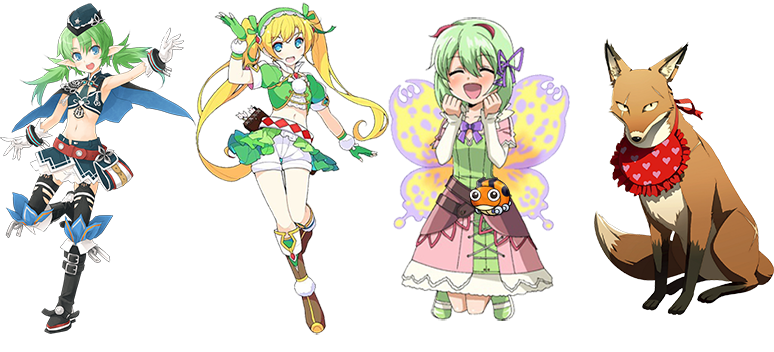
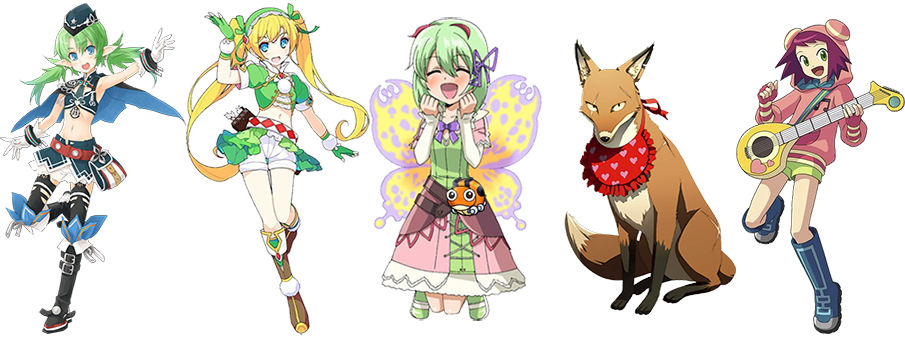
Subida la noticia de megaman y algunos cambios en la web

diff --git a/index.html b/index.html
@@ -55,6 +55,14 @@ window.cookieconsent.initialise({
 		<div class="main-menu" id="main-menu"></div>
 		<div class="second-bar" id="second-bar"><a href="index.html"><div class="logo"></div></a></div>
 		<div class="content-container" style="width: 630px; float: left;">
+		<div class="content-title" style="width: 610px;">¡Anunciamos la traducción de Megaman Starforce 3!</div>
+			<div class="content">
+				<img onload="this.style.opacity='1';" src="articles/02-2018/traduccionmegamanstarforce3-28/images/top.jpg" ><br>
+				Después de <b>A Hat in Time</b>, se viene el que es el segundo proyecto nacido de la iniciativa <b><u>TraduSquare</u></b>.<br><br>
+				Así, dos equipos pertenecientes a <b>esta bonita comunidad</b>, se han unido para llevar a cabo la traducción de <b>Megaman Starforce 3</b>, para Nintendo DS. Para quien no lo conozca, Megaman Starforce es una subsaga de Megaman, secuela "directa" (unos 200 años en el futuro) del famosísimo Megaman Battle Network.<br><br>
+				Si bien los dos primeros juegos de esta saga <b>vinieron traducidos de forma oficial en español</b>, el tercero quedó en el olvido, allá por el 2009, y, a pesar de haberse intentado realizar en varias ocasiones una traducción por fans, ninguna llegó a buen puerto...<br><br>
+				<center><a class="boton_readmore" href="https://tradusquare.es/2018/02/28/nuevo-proyecto-megaman-starforce-3-ds/">Leer más</a></center>
+			</div>
 		<div class="content-title" style="width: 610px;">GlowNovedades #4: ¡Proyecto secreto, testeo de lord y más!</div>
 			<div class="content">
 				<img onload="this.style.opacity='1';" style="width: 570px; height: 320px;" src="articles/01-2018/GlowNovedades4-31/images/top.png" ><br>
@@ -94,17 +102,6 @@ window.cookieconsent.initialise({
                 La <b>traducción de Rune Factory 4</b> también tiene sus novedades...<br><br>
 				<center><a class="boton_readmore" href="articles/12-2017/Avancestradus-17/Avancestradus.html">Leer más</a></center>
 			</div>
-        <div class="content-title" style="width: 610px;">GlowNovedades #2 - ¡Se acercan las navidades!</div>
-			<div class="content">
-				<img onload="this.style.opacity='1';" style="width: 570px; height: 320px;" src="articles/11-2017/GlowNovedades2-30/images/top.png" ><br>
-                <b>¡Hola de nuevo!</b>
-                Traemos las GlowNovedades de éste mes, ¡con muchas cosas que contar!<br><br>
-
-                La <b>traducción de Lord of Magna</b> va viento en popa. Quedan pocas líneas de texto que traducir y corregir por lo que, una vez terminadas, comenzará su fase de testeo. ¡Esperad un poquito más! <br> <br>
-
-                La <b>traducción de Rune Factory 4</b> también avanza adecuadamente...<br> <br>
-				<center><a class="boton_readmore" href="articles/11-2017/GlowNovedades2-30/GlowNovedades-2.html">Leer más</a></center>
-			</div>
 		</div>
 			<div class="module" style="width: 260px;">
 			<div class="content-container">
@@ -112,6 +109,7 @@ window.cookieconsent.initialise({
 				<div class="content-title">Noticias</div>
 				</div>
 				<ul>
+					<li><a href="articles/02-2018/index.html">Febrero 2018</a></li>
 					<li><a href="articles/01-2018/index.html">Enero 2018</a></li>
                     <li><a href="articles/12-2017/index.html">Diciembre 2017</a></li>
 					<li><a href="articles/11-2017/index.html">Noviembre 2017</a></li>
@@ -144,15 +142,15 @@ window.cookieconsent.initialise({
 				<div style="clear: both;"></div>
 				<div class="progress-title">Lord of Magna: Maiden Heaven</div>
 					<div class="wrap">
-					<div class="progress-radial progress-85" style="background-color: #4f7cfe;">
+					<div class="progress-radial progress-95" style="background-color: #4f7cfe;">
  					 <div class="overlay"></div>
- 					 <div class="text-overlay" style="font-size: 30px;">85%</div>
+ 					 <div class="text-overlay" style="font-size: 30px;">95%</div>
 					</div>
 					</div>
 				<div style="clear: both;"></div>
 				<div class="progress-title">Rune Factory 4</div>
 					<div class="wrap">
-					<div class="progress-radial progress-15" style="background-color: #4f7cfe;">
+					<div class="progress-radial progress-20" style="background-color: #4f7cfe;">
  					 <div class="overlay"></div>
  					 <div class="text-overlay" style="font-size: 30px;">15%</div>
 					</div>
@@ -163,6 +161,14 @@ window.cookieconsent.initialise({
 					<div class="progress-radial progress-5" style="background-color: #4f7cfe;">
  					 <div class="overlay"></div>
  					 <div class="text-overlay" style="font-size: 30px;">5%</div>
+					</div>
+					</div>
+				<div style="clear: both;"></div>
+				<div class="progress-title">Megaman StarForce 3</div>
+					<div class="wrap">
+					<div class="progress-radial progress-10" style="background-color: #4f7cfe;">
+ 					 <div class="overlay"></div>
+ 					 <div class="text-overlay" style="font-size: 30px;">10%</div>
 					</div>
 					</div>
 				<div style="clear: both;"></div>
@@ -179,6 +185,7 @@ window.cookieconsent.initialise({
 				<a href="http://tiovictor.romhackhispano.org/"><img style="margin-top: 10px; margin-bottom: 10px;" onload="this.style.opacity='1';" width="240px" height="78px" src="images/friends/tiovictor.png"></a>
 				<a href="https://www.gradienwords.es/"><img style="margin-top: 10px; margin-bottom: 10px;" onload="this.style.opacity='1';" width="240px" height="78px" src="images/friends/gradien.png"></a>
                 <a href="http://traduccionesxt.blogspot.com.es/"><img style="margin-top: 10px; margin-bottom: 10px;" onload="this.style.opacity='1';" width="240px" height="78px" src="images/friends/tradusXT.png"></a>
+				<a href="https://crimsontranslations.weebly.com/"><img style="margin-top: 10px; margin-bottom: 10px;" onload="this.style.opacity='1';" width="240px" height="78px" src="images/friends/crimson.png"></a>
 			</div>
 		</div>
 		<div style="height:100px; clear: both;"></div>

diff --git a/js/menus.js b/js/menus.js
@@ -1,5 +1,5 @@
 function mainMenu() {
-	document.getElementById("main-menu").innerHTML = '<a href="http://glowtranslations.tk/index.html"><div class="top-menu-item inicio">Inicio</div></a><div class="top-menu-item dropdown traducciones">Traducciones<div class="dropdown-content"><a href="http://glowtranslations.tk/translations/stellaglow/informacion.html"><div class="dropdown-item" id="stella-dropdown"><img style="opacity: 1; border: 1px solid #000000;" src="http://glowtranslations.tk/images/game-sg.jpg">Stella Glow <p class="state-dropdown">Finalizado</p></div></a><a href="http://glowtranslations.tk/translations/runefactory4/informacion.html"><div class="dropdown-item" id="stella-dropdown"><img src="http://glowtranslations.tk/images/game-rf4.jpg" style="opacity: 1; border: 1px solid #000000;">Rune Factory 4 <p class="state-dropdown">En proceso</p></div></a><a href="http://glowtranslations.tk/translations/lordofmagna/informacion.html"><div class="dropdown-item" id="stella-dropdown"><img src="http://glowtranslations.tk/images/game-lom.jpg" style="opacity: 1; border: 1px solid #000000;">Lord Of Magna: Maiden Heaven <p class="state-dropdown">En proceso</p></div></a><a href="http://glowtranslations.tk/translations/persona4/informacion.html"><div class="dropdown-item" id="stella-dropdown"><img src="http://glowtranslations.tk/images/game-p4.png" style="opacity: 1; border: 1px solid #000000;">SMT: Persona 4 <p class="state-dropdown">En proceso</p></div></a></div></div><a href="http://glowtranslations.tk/contactar.html"><div class="top-menu-item contacto">Contacto</div></a><a href="http://glowtranslations.tk/faq.html"><div class="top-menu-item FAQ">FAQ</div></a><a href="http://glowtranslations.tk/miembros.html"><div class="top-menu-item miembros">Miembros</div></a>';
+	document.getElementById("main-menu").innerHTML = '<a href="http://glowtranslations.tk/index.html"><div class="top-menu-item inicio">Inicio</div></a><div class="top-menu-item dropdown traducciones">Traducciones<div class="dropdown-content"><a href="http://glowtranslations.tk/translations/stellaglow/informacion.html"><div class="dropdown-item" id="stella-dropdown"><img style="opacity: 1; border: 1px solid #000000;" src="http://glowtranslations.tk/images/game-sg.jpg">Stella Glow <p class="state-dropdown">Finalizado</p></div></a><a href="http://glowtranslations.tk/translations/lordofmagna/informacion.html"><div class="dropdown-item" id="stella-dropdown"><img src="http://glowtranslations.tk/images/game-lom.jpg" style="opacity: 1; border: 1px solid #000000;">Lord Of Magna: Maiden Heaven <p class="state-dropdown">En proceso</p></div></a><a href="http://glowtranslations.tk/translations/runefactory4/informacion.html"><div class="dropdown-item" id="stella-dropdown"><img src="http://glowtranslations.tk/images/game-rf4.jpg" style="opacity: 1; border: 1px solid #000000;">Rune Factory 4 <p class="state-dropdown">En proceso</p></div></a><a href="http://glowtranslations.tk/translations/persona4/informacion.html"><div class="dropdown-item" id="stella-dropdown"><img src="http://glowtranslations.tk/images/game-p4.png" style="opacity: 1; border: 1px solid #000000;">SMT: Persona 4 <p class="state-dropdown">En proceso</p></div></a><a href="https://tradusquare.es/2018/02/28/nuevo-proyecto-megaman-starforce-3-ds/"><div class="dropdown-item" id="stella-dropdown"><img src="http://glowtranslations.tk/images/game-msf3.png" style="opacity: 1; border: 1px solid #000000;">Megaman Starforce 3 <p class="state-dropdown">En proceso</p></div></a></div></div><a href="http://glowtranslations.tk/contactar.html"><div class="top-menu-item contacto">Contacto</div></a><a href="http://glowtranslations.tk/faq.html"><div class="top-menu-item FAQ">FAQ</div></a><a href="http://glowtranslations.tk/miembros.html"><div class="top-menu-item miembros">Miembros</div></a>';
 	}
 function stellaGlowSubMenu() {	
 	document.getElementById("second-bar").innerHTML =  '<a href="http://glowtranslations.tk/index.html" style="width: 325px; display: inline-block"><div class="logo"></div></a><div class="sub-menu"><a href="http://glowtranslations.tk/translations/stellaglow/informacion.html"><div class="sub-menu-item informacion">Información</div>				<a href="http://glowtranslations.tk/translations/stellaglow/galeria.html"><div class="sub-menu-item galeria">Galería</div></a>				<a href="http://glowtranslations.tk/translations/stellaglow/descargas.html"><div class="sub-menu-item descargas">Descargas</div></a>				<a href="http://glowtranslations.tk/translations/stellaglow/creditos.html"><div class="sub-menu-item creditos">Créditos</div></a></div>';

diff --git a/articles/02-2018/index.html b/articles/02-2018/index.html
@@ -11,7 +11,7 @@
 	<meta property="og:title" content="Glowtranslations"/>
 	<meta property="og:description" content="Pagina oficial de Glow translations, traducciones FAN de juegos."/>
 	<meta property="og:image" content="http://glowtranslations.tk/images/metaindex.png"/>
-	<title>GlowTranslations - Artículos de enero de 2018</title>
+	<title>GlowTranslations - Artículos de febrero de 2018</title>
 	<link rel="stylesheet" type="text/css" href="../../css/style.css">
 	<link rel="stylesheet" type="text/css" href="../../css/progress.css">
     <link rel="apple-touch-icon" sizes="180x180" href="../../apple-touch-icon.png">
@@ -55,15 +55,13 @@ window.cookieconsent.initialise({
 		<div class="main-menu" id="main-menu"></div>
 		<div class="second-bar" id="second-bar"><a href="index.html"><div class="logo"></div></a></div>
 		<div class="content-container" style="width: 630px; float: left;">
-		<div class="content-title" style="width: 610px;">GlowNovedades #4: ¡Proyecto secreto, testeo de lord y más!</div>
+		<div class="content-title" style="width: 610px;">¡Anunciamos la traducción de Megaman Starforce 3!</div>
 			<div class="content">
-				<img onload="this.style.opacity='1';" style="width: 570px; height: 320px;" src="GlowNovedades4-31/images/top.png" ><br>
-				Aquí estamos de nuevo con las GlowNovedades, pero esta vez haremos la noticia en TraduSquare!<br>
-				Este mes tenemos muchas cosas que contaros:<br>
-				<img onload="this.style.opacity='1';" style="width: 460px; height: 260px;" src="http://media.tumblr.com/tumblr_m58562nB4k1qlz4fx.gif" /><br><br>
-				Primero, <b>comienza la fase de testeo de Lord of magna.</b><br>
-				Nuestros compañeros han trabajado muy duro para hacer una traducción de gran calidad, <b>basándose muchos textos en la versión...</b><br><br>
-				<center><a class="boton_readmore" href="https://tradusquare.es/2018/01/31/glownovedades-4-proyecto-secreto-testeo-lord-mas/">Leer más</a></center>
+				<img onload="this.style.opacity='1';" src="traduccionmegamanstarforce3-28/images/top.jpg" ><br>
+				Después de <b>A Hat in Time</b>, se viene el que es el segundo proyecto nacido de la iniciativa <b><u>TraduSquare</u></b>.<br><br>
+				Así, dos equipos pertenecientes a <b>esta bonita comunidad</b>, se han unido para llevar a cabo la traducción de <b>Megaman Starforce 3</b>, para Nintendo DS. Para quien no lo conozca, Megaman Starforce es una subsaga de Megaman, secuela "directa" (unos 200 años en el futuro) del famosísimo Megaman Battle Network.<br><br>
+				Si bien los dos primeros juegos de esta saga <b>vinieron traducidos de forma oficial en español</b>, el tercero quedó en el olvido, allá por el 2009, y, a pesar de haberse intentado realizar en varias ocasiones una traducción por fans, ninguna llegó a buen puerto...<br><br>
+				<center><a class="boton_readmore" href="https://tradusquare.es/2018/02/28/nuevo-proyecto-megaman-starforce-3-ds/">Leer más</a></center>
 			</div>
 		</div>
 			<div class="module" style="width: 260px;">
@@ -72,8 +70,8 @@ window.cookieconsent.initialise({
 				<div class="content-title">Noticias</div>
 				</div>
 				<ul>
-					<li><a href="../02-2018/index.html">Febrero 2018</a></li>
-					<li><a style="text-decoration: underline; text-decoration-style: solid;">Enero 2018</a></li>
+					<li><a style="text-decoration: underline; text-decoration-style: solid;">Febrero 2018</a></li>
+					<li><a href="../01-2018/index.html">Enero 2018</a></li>
 					<li><a href="../12-2017/index.html">Diciembre 2017</a></li>
 					<li><a href="../11-2017/index.html">Noviembre 2017</a></li>
                     <li><a href="../10-2017/index.html">Octubre 2017</a></li>

diff --git a/faq.html b/faq.html
@@ -62,7 +62,7 @@ window.cookieconsent.initialise({
 				Nuestra misión es facilitar a los usuarios el poder divertirse con estos videojuegos, ya que tienen historias que quieren ser contadas y una jugabilidad que quiere ser disfrutada.
 				Así que nos dedicamos a traducir esos juegos para que tú y todo el mundo podáis acceder a ellos.<br><br>
 				<div class="title"><h1>Nuestros proyectos</h1></div>
-				Ahora mismo estamos trabajando en nuestros proyectos: estamos traduciendo del inglés al español los juegos <a href="translations/runefactory4/informacion.html">«Rune Factory 4»</a>, <a href="translations/lordofmagna/informacion.html">«Lord of Magna: Maiden Heaven»</a> y <a href="translations/persona4/informacion.html">«Shin Megami Tensei: Persona 4»</a>, que salieron en japonés y en inglés, pero no en nuestro idioma. <br><br>
+				Ahora mismo estamos trabajando en nuestros proyectos: estamos traduciendo del inglés al español los juegos <a href="translations/runefactory4/informacion.html">«Rune Factory 4»</a>, <a href="translations/lordofmagna/informacion.html">«Lord of Magna: Maiden Heaven»</a>, <a href="translations/persona4/informacion.html">«Shin Megami Tensei: Persona 4»</a> y <a href="https://tradusquare.es/2018/02/28/nuevo-proyecto-megaman-starforce-3-ds/">«Megaman Starforce 3»</a>, que salieron en japonés y en inglés, pero no en nuestro idioma. <br><br>
 				Acabamos de terminar la traducción de <a href="translations/stellaglow/informacion.html">Stella Glow</a>; hemos tardado prácticamente un año y poco en traducirlo. Lo hemos probado y funciona bien, el parche es fácil de aplicar, y te permitirá disfrutar el juego en español.<br><br>
 				Posiblemente tenga errores gramaticales, alguna que otra frase en un español que no sea neutro, o alguna palabra fuera de contexto, pero no somos profesionales, así que es normal.<br><br>
 				Si encuentras un error, revisa la sección de información del juego específico para ayudarnos a arreglarlo. Nos ocuparemos de él lo antes posible.

diff --git a/translations/lordofmagna/progresos.html b/translations/lordofmagna/progresos.html
@@ -67,14 +67,14 @@ window.cookieconsent.initialise({
 				<tr>
 				<td class='title'>Sección</td><td class='title'>Traducido</td><td class='title'>Corregido</td><td class='title'>Testeado</td>
 				</tr>
-				<tr><td>Historia</td><td class='yes'>100%</td><td class='yes'>100%</td><td class='wip'>0%</td></tr>
-				<tr><td>Conversaciones</td><td class='yes'>100%</td><td class='yes'>100%</td><td class='wip'>0%</td></tr>
-				<tr><td>Relaciones</td><td class='yes'>100%</td><td class='yes'>100%</td><td class='wip'>0%</td></tr>
-				<tr><td>Objetos</td><td class='yes'>100%</td><td class='yes'>100%</td><td class='wip'>0%</td></tr>
-				<tr><td>Localizaciones</td><td class='yes'>100%</td><td class='yes'>100%</td><td class='wip'>0%</td></tr>
-				<tr><td>Habilidades y magias</td><td class='yes'>100%</td><td class='yes'>100%</td><td class='wip'>0%</td></tr>
-				<tr><td>Vídeos</td><td class='yes'>100%</td><td class='yes'>100%</td><td class='wip'>0%</td></tr>
-				<tr><td>Interfaz</td><td class='yes'>100%</td><td class='yes'>100%</td><td class='wip'>0%</td></tr>
+				<tr><td>Historia</td><td class='yes'>100%</td><td class='yes'>100%</td><td class='wip'>55%</td></tr>
+				<tr><td>Conversaciones</td><td class='yes'>100%</td><td class='yes'>100%</td><td class='wip'>25%</td></tr>
+				<tr><td>Relaciones</td><td class='yes'>100%</td><td class='yes'>100%</td><td class='wip'>30%</td></tr>
+				<tr><td>Objetos</td><td class='yes'>100%</td><td class='yes'>100%</td><td class='wip'>60%</td></tr>
+				<tr><td>Localizaciones</td><td class='yes'>100%</td><td class='yes'>100%</td><td class='wip'>40%</td></tr>
+				<tr><td>Habilidades y magias</td><td class='yes'>100%</td><td class='yes'>100%</td><td class='wip'>60%</td></tr>
+				<tr><td>Vídeos</td><td class='yes'>100%</td><td class='yes'>100%</td><td class='yes'>100%</td></tr>
+				<tr><td>Interfaz</td><td class='yes'>100%</td><td class='yes'>100%</td><td class='wip'>80%</td></tr>
 				</table>
    </div>
 		</div>

diff --git a/miembros.html b/miembros.html
@@ -83,11 +83,6 @@ window.cookieconsent.initialise({
 					<div class="member-desc">Corrector<br>Redactora</div> <!-- Si, esta puesto así a propósito -->
 				</div>
 				<div class="member-container"style="background: linear-gradient(#aaa, #ccc, #aaa);">
-					<div class="member-avatar" style="background-image: url('images/avatars/Elaine.jpg')"></div>
-					<div class="member-name" style="background-color: #4f7cfe;">ElaineWeasley</div>
-					<div class="member-desc">Traductora<br>Correctora</div>
-				</div>
-				<div class="member-container"style="background: linear-gradient(#aaa, #ccc, #aaa);">
 					<div class="member-avatar" style="background-image: url('images/avatars/Hec17.jpg')"></div>
 					<div class="member-name" style="background-color: #4f7cfe;">Hec17</div>
 					<div class="member-desc">Traductor</div>

diff --git a/translations/persona4/miembros.html b/translations/persona4/miembros.html
@@ -85,12 +85,6 @@ window.cookieconsent.initialise({
 						<img onload="this.style.opacity='1';" src="../../images/avatars/Sorium.jpeg" style="width: 100px; height: 100px;">
 					</div>
 				</div>
-				<div class="credits-container"> 
-					<div class="credits-name">ElaineWeasley</div>
-					<div class="credits-avatar">
-						<img onload="this.style.opacity='1';" src="../../images/avatars/Elaine.jpg" style="width: 100px; height: 100px;">
-					</div>
-				</div>
 				<div style="clear: both;"></div>
 				<div class="title"><h1>Corrección</h1></div>
 				<div class="credits-container"> 

diff --git a/articles/11-2017/index.html b/articles/11-2017/index.html
@@ -73,6 +73,7 @@ window.cookieconsent.initialise({
 				<div class="content-title">Noticias</div>
 				</div>
 				<ul>
+					<li><a href="../02-2018/index.html">Febrero 2018</a></li>
 					<li><a href="../01-2018/index.html">Enero 2018</a></li>
 					<li><a href="../12-2017/index.html">Diciembre 2017</a></li>
 					<li><a style="text-decoration: underline; text-decoration-style: solid;">Noviembre 2017</a></li>

diff --git a/articles/12-2017/index.html b/articles/12-2017/index.html
@@ -91,6 +91,7 @@ window.cookieconsent.initialise({
 				<div class="content-title">Noticias</div>
 				</div>
 				<ul>
+					<li><a href="../02-2018/index.html">Febrero 2018</a></li>
 					<li><a href="../01-2018/index.html">Enero 2018</a></li>
 					<li><a style="text-decoration: underline; text-decoration-style: solid;">Diciembre 2017</a></li>
 					<li><a href="../11-2017/index.html">Noviembre 2017</a></li>

diff --git a/articles/10-2017/index.html b/articles/10-2017/index.html
@@ -91,6 +91,7 @@ window.cookieconsent.initialise({
 				<div class="content-title">Noticias</div>
 				</div>
 				<ul>
+					<li><a href="../02-2018/index.html">Febrero 2018</a></li>
 					<li><a href="../01-2018/index.html">Enero 2018</a></li>
 					<li><a href="../12-2017/index.html">Diciembre 2017</a></li>
                     <li><a href="../11-2017/index.html">Noviembre 2017</a></li>
